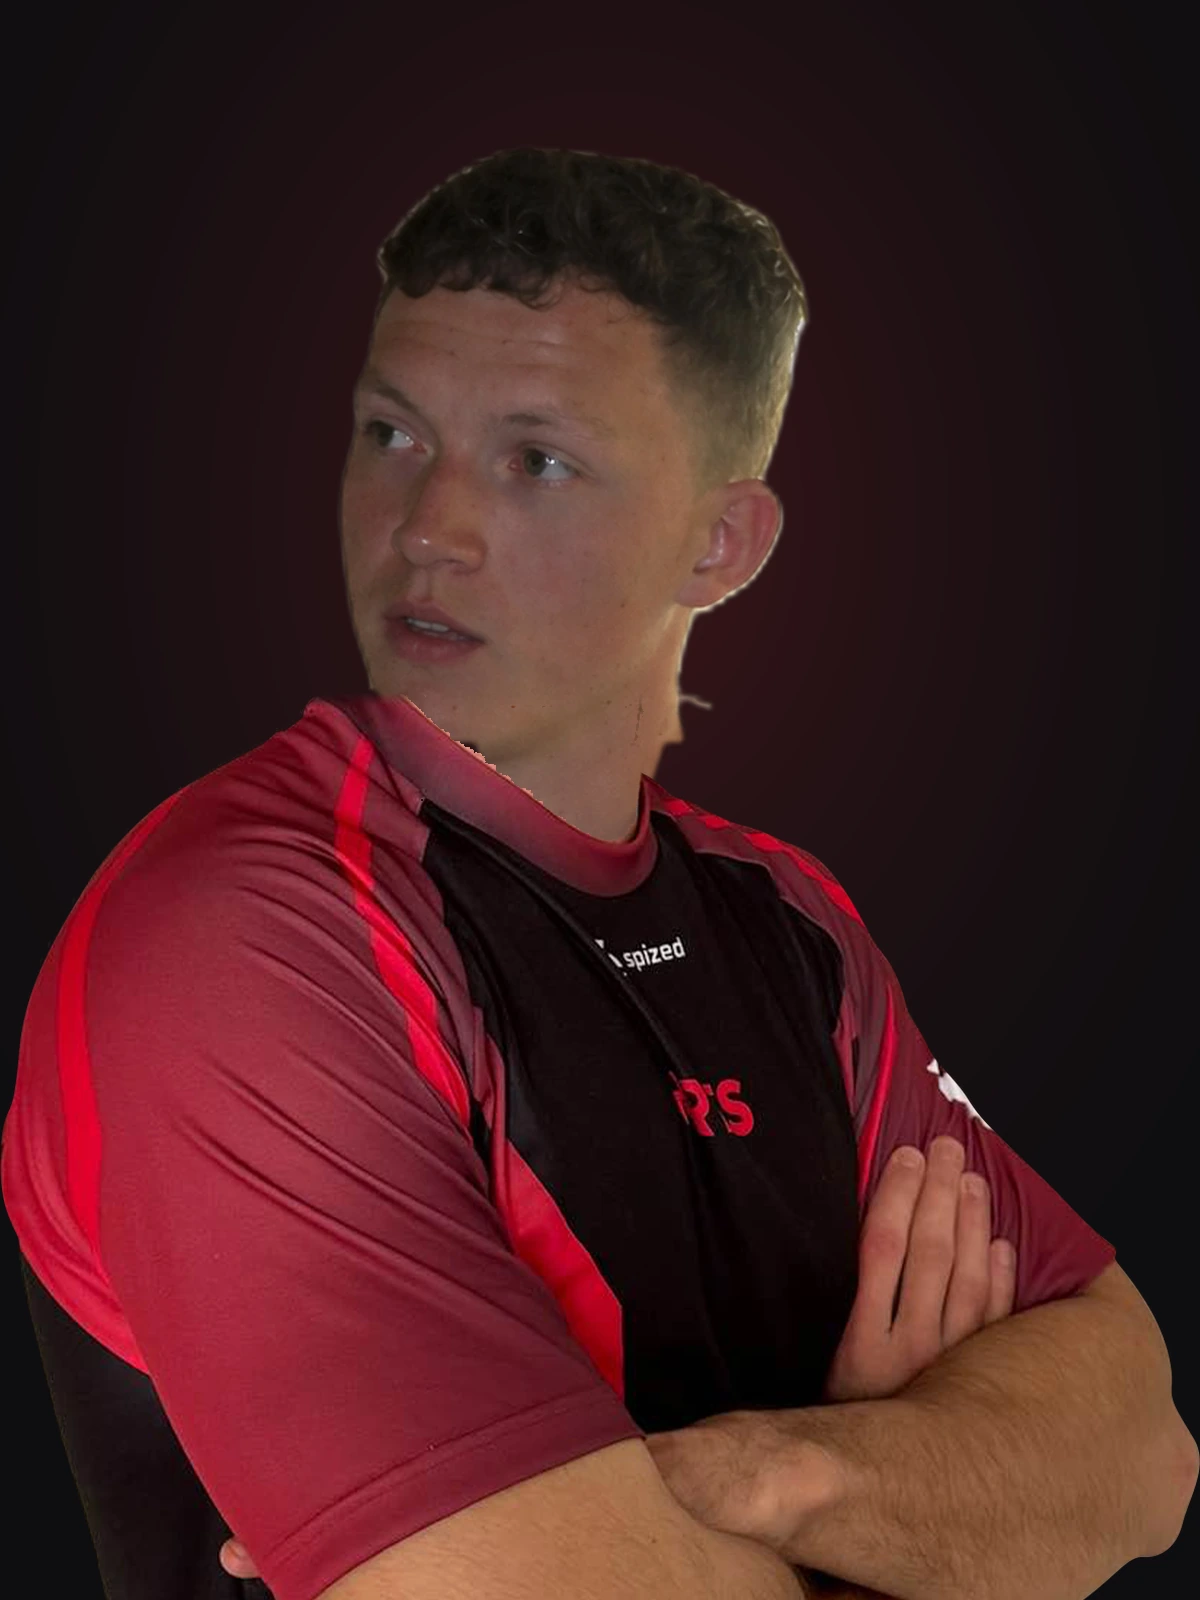
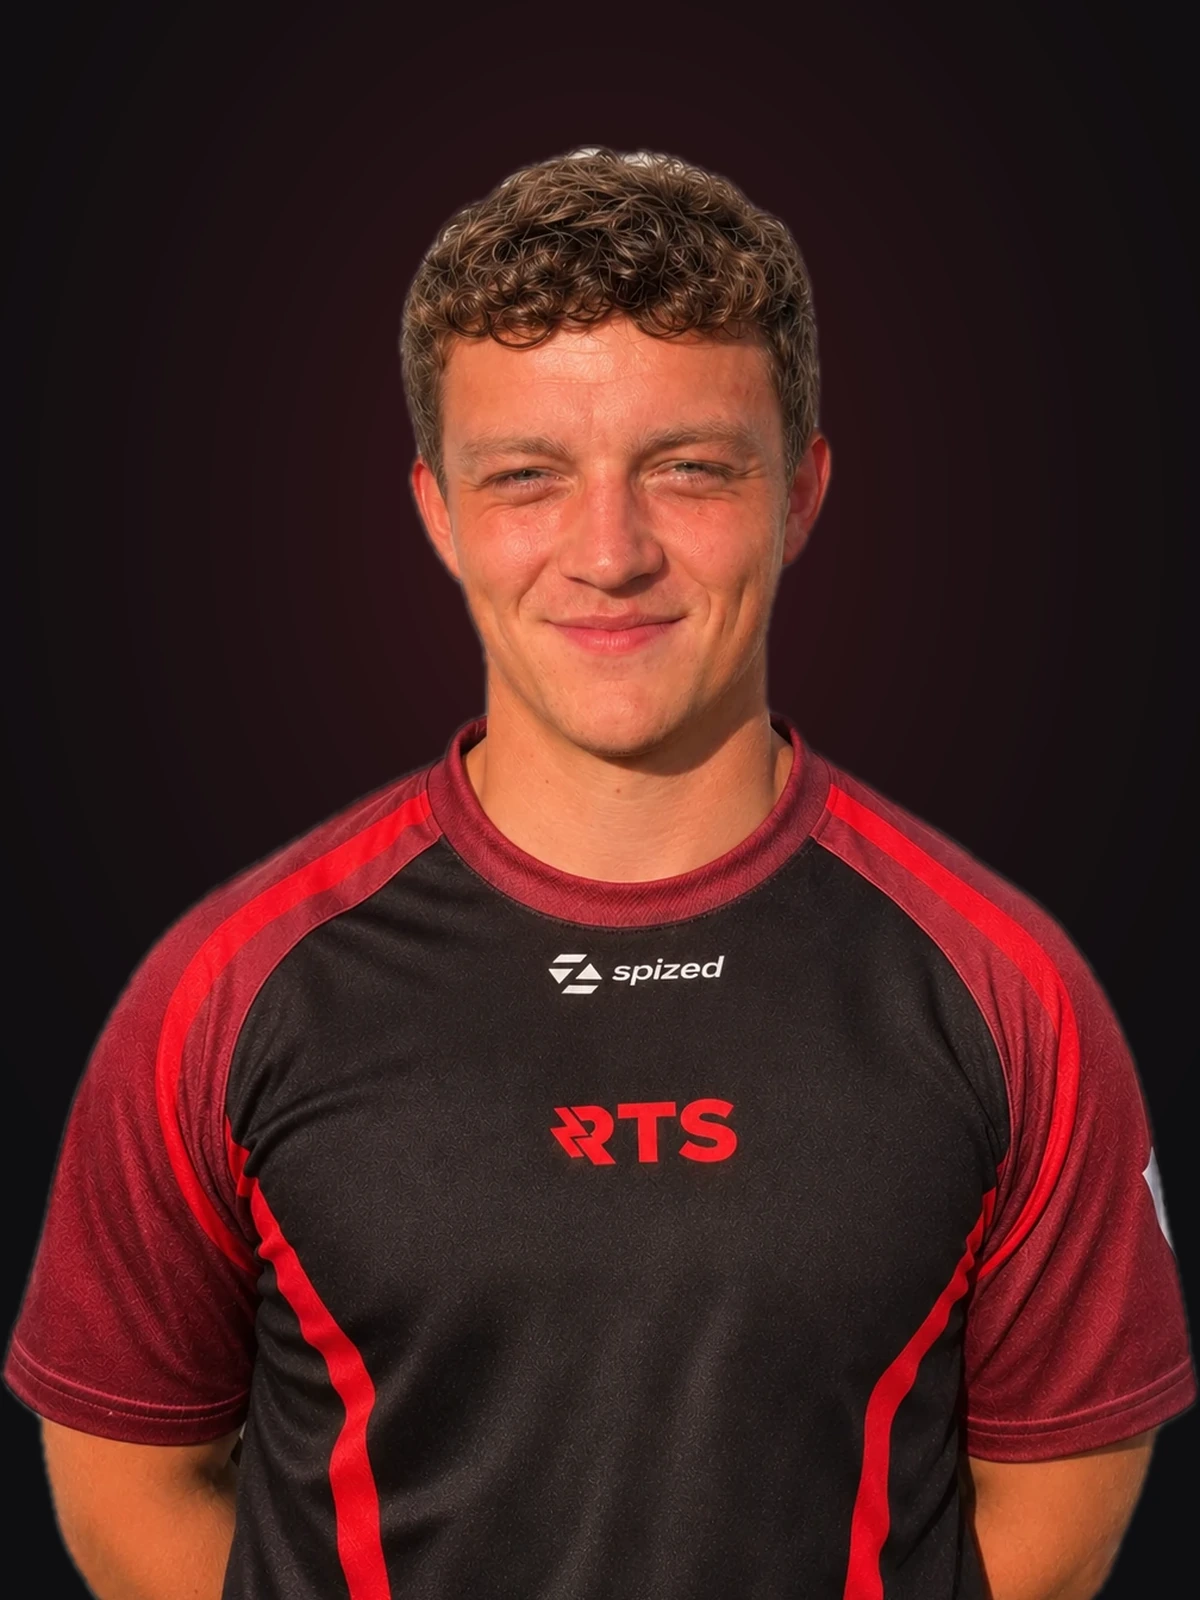
Team: new photo of Mehdi

diff --git a/index.html b/index.html
@@ -397,7 +397,7 @@ Mehdi, notre assistant de direction, simplifie le quotidien des joueurs et des c
 
 Vidéaste depuis plusieurs années, il apporte aussi un regard créatif sur notre création de contenu, et n’hésite pas à sortir la caméra pour produire des contenus pour la team.
 
-Présent au quotidien, il a une place active dans la structure de RTS Holdem."><img src="img/equipe-mehdi.webp?v=5" alt=""><span class="plate"><b>Mehdi</b><small>Staff</small></span></button>
+Présent au quotidien, il a une place active dans la structure de RTS Holdem."><img src="img/equipe-mehdi.webp?v=6" alt=""><span class="plate"><b>Mehdi</b><small>Staff</small></span></button>
       </div>
     </div>
   </div>
